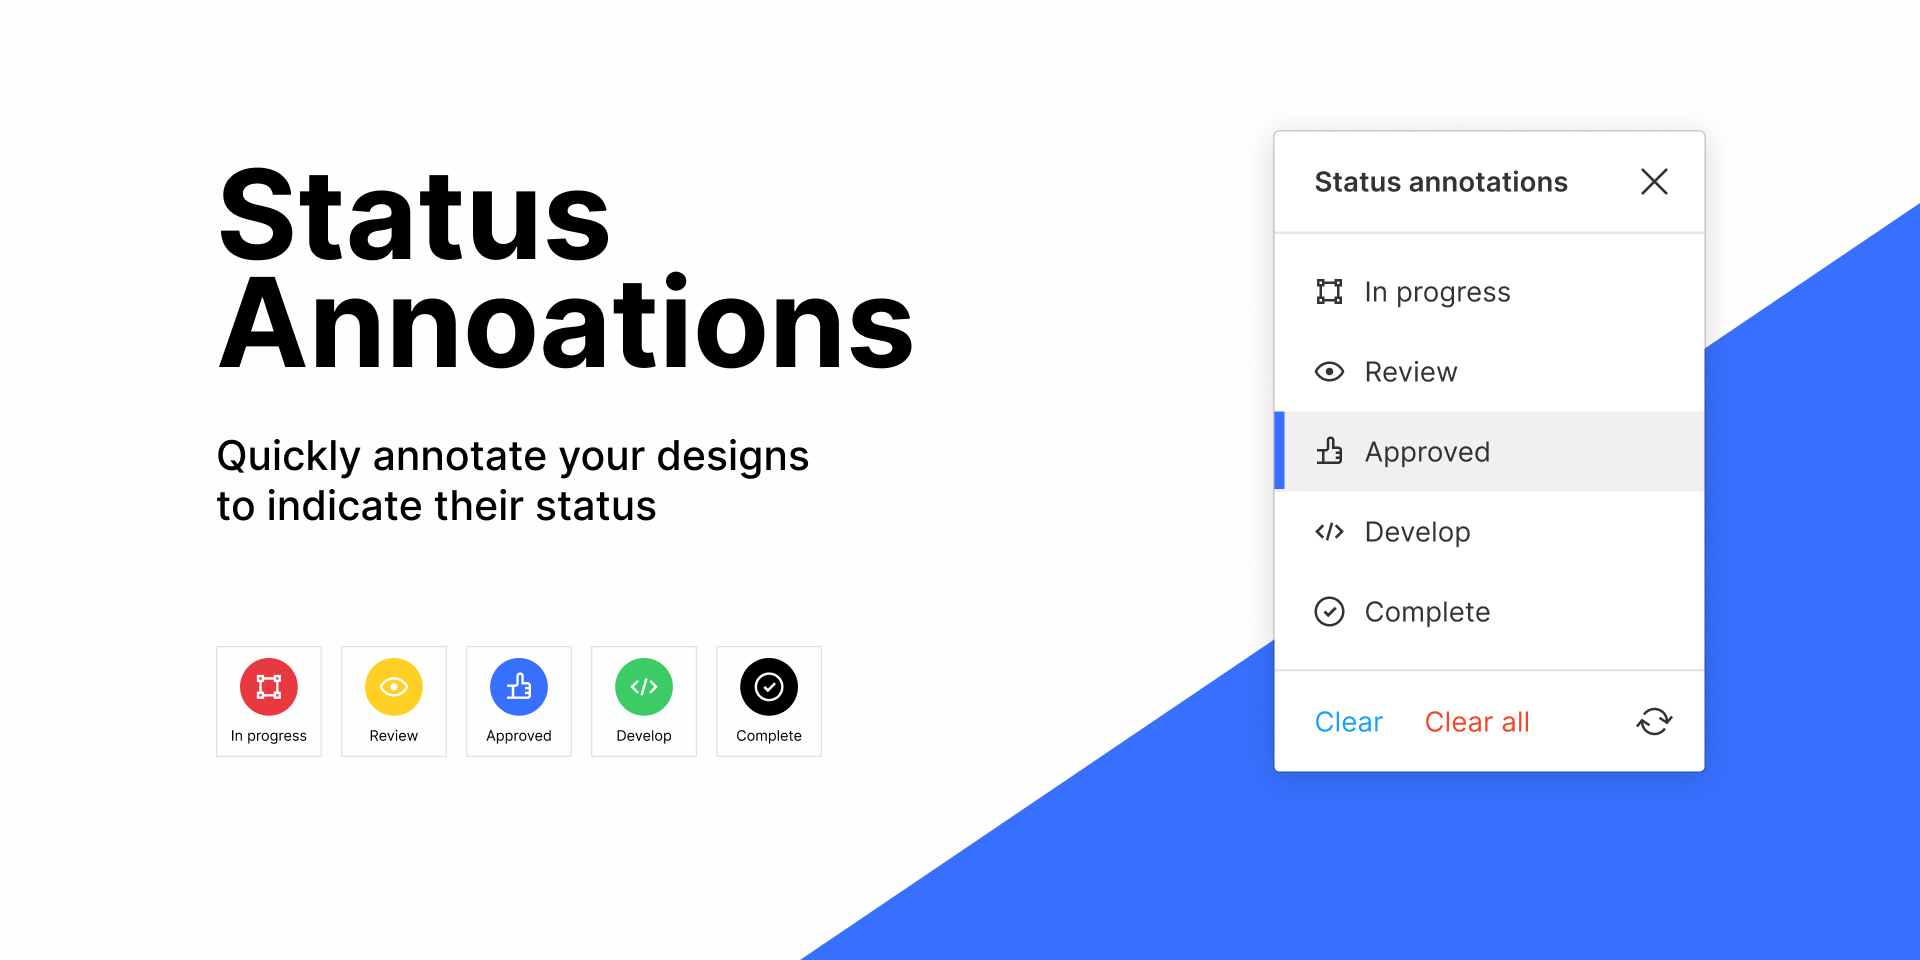
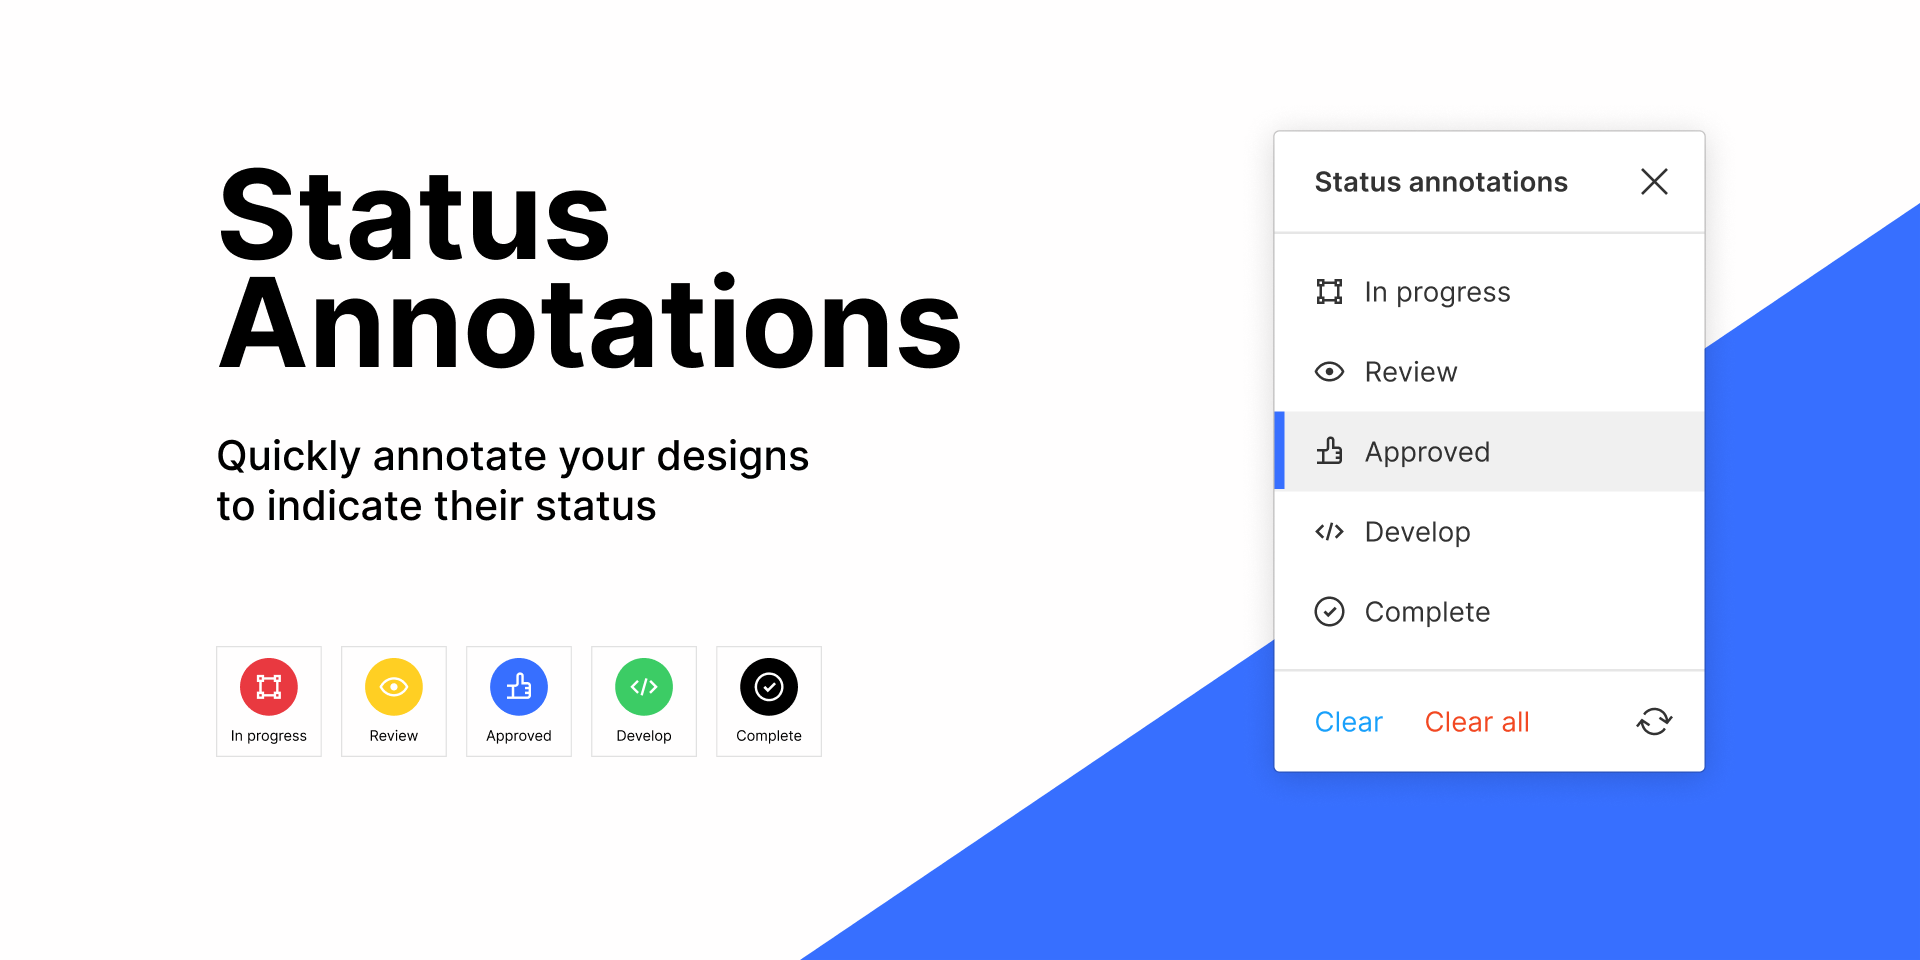
Fixed typo
Fixed typo in promo graphics

Changed region(s): [[0.2812, 0.2812, 0.5, 0.4062]]

diff --git a/public/code.js b/public/code.js
@@ -1,4 +1,5 @@
-"use strict";
+'use strict';
+
 /*! *****************************************************************************
 Copyright (c) Microsoft Corporation. All rights reserved.
 Licensed under the Apache License, Version 2.0 (the "License"); you may not use
@@ -12,4 +13,250 @@ MERCHANTABLITY OR NON-INFRINGEMENT.
 
 See the Apache Version 2.0 License for specific language governing permissions
 and limitations under the License.
-***************************************************************************** */function e(e,t,a,n){return new(a||(a=Promise))((function(i,s){function l(e){try{r(n.next(e))}catch(e){s(e)}}function o(e){try{r(n.throw(e))}catch(e){s(e)}}function r(e){var t;e.done?i(e.value):(t=e.value,t instanceof a?t:new a((function(e){e(t)}))).then(l,o)}r((n=n.apply(e,t||[])).next())}))}let t=210,a=figma.currentPage;function n(){let e=a.selection,t=[];return e&&e.forEach(e=>{"FRAME"===e.type&&t.push(e)}),t}function i(e){let t=e.id,n=a.findOne(e=>"GROUP"===e.type&&"status_annotations"===e.name);e.setSharedPluginData("statusannotations","status",""),n&&n.children.forEach(e=>{let a=e.getPluginData("frameId");t===a&&e.remove()})}function s(){let e=a.findOne(e=>"GROUP"===e.type&&"status_annotations"===e.name);e&&e.children.forEach(e=>{let t=e.getPluginData("frameId"),a=figma.getNodeById(t);if(a){let t=a.y-e.height-8,n=a.x+a.width-e.width;e.x=n,e.y=t}else e.remove()})}function l(e){let t=/^#?([a-f\d]{2})([a-f\d]{2})([a-f\d]{2})$/i.exec(e);return t?{r:parseInt(t[1],16)/255,g:parseInt(t[2],16)/255,b:parseInt(t[3],16)/255}:null}s(),"refresh"===figma.command?(s(),figma.closePlugin()):figma.showUI(__html__,{width:172,height:t}),figma.ui.onmessage=o=>{switch(o.type){case"height":t=o.height,figma.ui.resize(172,t);break;case"addStatus":!function(t){e(this,void 0,void 0,(function*(){let e=n();if(0!==e.length){let n=0,s=figma.createFrame();s.counterAxisSizingMode="AUTO",s.layoutMode="HORIZONTAL",s.itemSpacing=4,s.horizontalPadding=6,s.verticalPadding=4,s.name="annotation",s.topLeftRadius=3,s.topRightRadius=3,s.strokes=[{type:"SOLID",visible:!0,opacity:1,blendMode:"NORMAL",color:l("#DBDBDB")}],s.strokeWeight=1;let o=figma.createText();o.name=t.title;let r={family:"Inter",style:"Regular"};yield figma.loadFontAsync(r),o.fontName=r,o.fontSize=12,o.lineHeight={value:16,unit:"PIXELS"},o.characters=t.title;let c=figma.createNodeFromSvg(t.icon);c.name="icon-"+t.slug,c.layoutAlign="CENTER",s.insertChild(0,o),s.insertChild(1,c);let f=[];f.push(s);let u=figma.group(f,a);u.name=t.title;let h=l(t.color);h=Object.assign({a:1},h),u.effects=[{blendMode:"NORMAL",color:h,offset:{x:0,y:-2},radius:0,type:"INNER_SHADOW",visible:!0}],e.forEach(e=>{let s;i(e),s=0===n?u:u.clone();let l=e.id,o=e.y-s.height-8,r=e.x+e.width-s.width;s.x=r,s.y=o,s.setPluginData("frameId",l);let c=a.findOne(e=>"GROUP"===e.type&&"status_annotations"===e.name);if(c)c.appendChild(s);else{let e=[];e.push(s);let t=figma.group(e,a);t.name="status_annotations",t.locked=!0,t.expanded=!1}e.setRelaunchData({status:t.title}),e.setSharedPluginData("statusannotations","status",t.title),a.setRelaunchData({refresh:""}),n++})}else figma.notify("Please select a frame")}))}(o.status);break;case"clear":!function(){let e=n();e?e.forEach(e=>{i(e),e.setRelaunchData({})}):figma.notify("Please select a frame with a status.")}();break;case"clearAll":!function(){let e=a.findOne(e=>"GROUP"===e.type&&"status_annotations"===e.name);e&&e.remove();a.findAll(e=>"FRAME"===e.type).forEach(e=>{e.setRelaunchData({})}),a.setRelaunchData({})}();break;case"refresh":s()}};
+***************************************************************************** */
+
+function __awaiter(thisArg, _arguments, P, generator) {
+    function adopt(value) { return value instanceof P ? value : new P(function (resolve) { resolve(value); }); }
+    return new (P || (P = Promise))(function (resolve, reject) {
+        function fulfilled(value) { try { step(generator.next(value)); } catch (e) { reject(e); } }
+        function rejected(value) { try { step(generator["throw"](value)); } catch (e) { reject(e); } }
+        function step(result) { result.done ? resolve(result.value) : adopt(result.value).then(fulfilled, rejected); }
+        step((generator = generator.apply(thisArg, _arguments || [])).next());
+    });
+}
+
+//vars
+let uiWidth = 172; // default ui width
+let uiHeight = 210; // default ui height
+let spacing = 8; // spacing of annotations from top of frame
+let page = figma.currentPage;
+cleanUp();
+if (figma.command === 'refresh') {
+    cleanUp();
+    figma.closePlugin();
+}
+else {
+    //show the UI of the plugin
+    figma.showUI(__html__, { width: uiWidth, height: uiHeight });
+}
+//recieves msgs from the UI
+figma.ui.onmessage = msg => {
+    switch (msg.type) {
+        case 'height':
+            uiHeight = msg.height;
+            figma.ui.resize(uiWidth, uiHeight);
+            break;
+        case 'addStatus':
+            let status = msg.status;
+            createAnnotations(status);
+            break;
+        case 'clear':
+            clearSelected();
+            break;
+        case 'clearAll':
+            clearAll();
+            break;
+        case 'refresh':
+            cleanUp();
+            break;
+    }
+};
+//function to get frames within the selection
+function getFramesInSelection() {
+    let selection = page.selection;
+    let framesInSelection = [];
+    if (selection) {
+        selection.forEach(node => {
+            if (node.type === 'FRAME') {
+                framesInSelection.push(node);
+            }
+        });
+    }
+    return framesInSelection;
+}
+//create specified annotation
+function createAnnotations(status) {
+    return __awaiter(this, void 0, void 0, function* () {
+        let selection = getFramesInSelection();
+        if (selection.length !== 0) {
+            //counter
+            let count = 0;
+            //create the frame with auto layout
+            let annotionFrame = figma.createFrame();
+            annotionFrame.counterAxisSizingMode = 'AUTO';
+            annotionFrame.layoutMode = 'HORIZONTAL';
+            annotionFrame.itemSpacing = 4;
+            annotionFrame.horizontalPadding = 6;
+            annotionFrame.verticalPadding = 4;
+            annotionFrame.name = 'annotation';
+            annotionFrame.topLeftRadius = 3;
+            annotionFrame.topRightRadius = 3;
+            //style the stroke
+            annotionFrame.strokes = [{
+                    type: 'SOLID',
+                    visible: true,
+                    opacity: 1,
+                    blendMode: 'NORMAL',
+                    color: hexToFigmaRgb('#DBDBDB')
+                }];
+            annotionFrame.strokeWeight = 1;
+            //create and style the text node
+            let text = figma.createText();
+            text.name = status.title;
+            //define and load the font
+            let fontName = {
+                'family': 'Inter',
+                'style': 'Regular'
+            };
+            yield figma.loadFontAsync(fontName);
+            //apply the font properties to the text node
+            text.fontName = fontName;
+            text.fontSize = 12;
+            text.lineHeight = {
+                'value': 16,
+                'unit': 'PIXELS'
+            };
+            //add text to the text node
+            text.characters = status.title;
+            //create the icon
+            let icon = figma.createNodeFromSvg(status.icon);
+            icon.name = 'icon-' + status.slug;
+            icon.layoutAlign = 'CENTER';
+            //add icon and text to annotation
+            annotionFrame.insertChild(0, text);
+            annotionFrame.insertChild(1, icon);
+            //group the frame and put it into an array
+            let itemsToGroup = [];
+            itemsToGroup.push(annotionFrame);
+            let annotation = figma.group(itemsToGroup, page);
+            annotation.name = status.title;
+            //create the inner shadow
+            let innerShadowColor = hexToFigmaRgb(status.color);
+            innerShadowColor = Object.assign({ a: 1.0 }, innerShadowColor);
+            annotation.effects = [{
+                    blendMode: 'NORMAL',
+                    color: innerShadowColor,
+                    offset: { x: 0, y: -2 },
+                    radius: 0,
+                    type: 'INNER_SHADOW',
+                    visible: true
+                }];
+            //loop through each frame
+            selection.forEach(frame => {
+                let statusAnnotation;
+                //remove existing status if there is one
+                removeStatus(frame);
+                //check to see if first annotation
+                if (count === 0) {
+                    statusAnnotation = annotation;
+                }
+                else {
+                    statusAnnotation = annotation.clone();
+                }
+                //get the frame id
+                let frameId = frame.id;
+                //set the position of the annotation
+                let y = frame.y - statusAnnotation.height - spacing;
+                let x = (frame.x + frame.width) - statusAnnotation.width;
+                statusAnnotation.x = x;
+                statusAnnotation.y = y;
+                //add meta data to the annotation
+                statusAnnotation.setPluginData('frameId', frameId);
+                //add to group with annotations or create one
+                let annotationGroup = page.findOne(x => x.type === 'GROUP' && x.name === 'status_annotations');
+                if (annotationGroup) {
+                    annotationGroup.appendChild(statusAnnotation);
+                }
+                else {
+                    let annotationsToGroup = [];
+                    annotationsToGroup.push(statusAnnotation);
+                    let newAnnotationGroup = figma.group(annotationsToGroup, page);
+                    newAnnotationGroup.name = 'status_annotations';
+                    newAnnotationGroup.locked = true;
+                    newAnnotationGroup.expanded = false;
+                }
+                //set plugin relaunch data
+                frame.setRelaunchData({ status: status.title });
+                frame.setSharedPluginData('statusannotations', 'status', status.title);
+                //add plugin relaunch data to the page
+                page.setRelaunchData({ refresh: '' });
+                //increase the counter
+                count++;
+            });
+        }
+        else {
+            figma.notify('Please select a frame');
+        }
+    });
+}
+//clears the status on selected frames
+function clearSelected() {
+    let selection = getFramesInSelection();
+    if (selection) {
+        selection.forEach(frame => {
+            removeStatus(frame);
+            frame.setRelaunchData({});
+        });
+    }
+    else {
+        figma.notify('Please select a frame with a status.');
+    }
+}
+//clear all annotations
+function clearAll() {
+    let annotationGroup = page.findOne(x => x.type === 'GROUP' && x.name === 'status_annotations');
+    if (annotationGroup) {
+        annotationGroup.remove();
+    }
+    //need to make this more performant
+    let frames = page.findAll(x => x.type === 'FRAME');
+    frames.forEach(frame => {
+        frame.setRelaunchData({});
+    });
+    //remove the plugin relaunch button
+    page.setRelaunchData({});
+}
+//remove the status msg from a frame
+function removeStatus(frame) {
+    let targetId = frame.id;
+    let annotationGroup = page.findOne(x => x.type === 'GROUP' && x.name === 'status_annotations');
+    //remove shared plugin data
+    frame.setSharedPluginData('statusannotations', 'status', '');
+    if (annotationGroup) {
+        annotationGroup.children.forEach(annotation => {
+            let refId = annotation.getPluginData('frameId');
+            if (targetId === refId) {
+                annotation.remove();
+            }
+        });
+    }
+}
+//this function removes unused annotations and also updates the position
+function cleanUp() {
+    let annotationGroup = page.findOne(x => x.type === 'GROUP' && x.name === 'status_annotations');
+    if (annotationGroup) {
+        annotationGroup.children.forEach(annotation => {
+            let refId = annotation.getPluginData('frameId');
+            let frame = figma.getNodeById(refId);
+            if (frame) {
+                let y = frame.y - annotation.height - spacing;
+                let x = (frame.x + frame.width) - annotation.width;
+                annotation.x = x;
+                annotation.y = y;
+            }
+            else {
+                annotation.remove();
+            }
+        });
+    }
+}
+//Helper Functions
+//hex to figma color system
+function hexToFigmaRgb(hex) {
+    let result = /^#?([a-f\d]{2})([a-f\d]{2})([a-f\d]{2})$/i.exec(hex);
+    return result ? {
+        r: (parseInt(result[1], 16)) / 255,
+        g: (parseInt(result[2], 16)) / 255,
+        b: (parseInt(result[3], 16)) / 255
+    } : null;
+}

diff --git a/src/code.ts b/src/code.ts
@@ -212,7 +212,7 @@ function clearSelected() {
 			frame.setRelaunchData({ });
 		})
 	} else {
-		figma.notify('Please select a frame with a status.')
+		figma.notify('Please select a frame with a status')
 	}
 }
 
